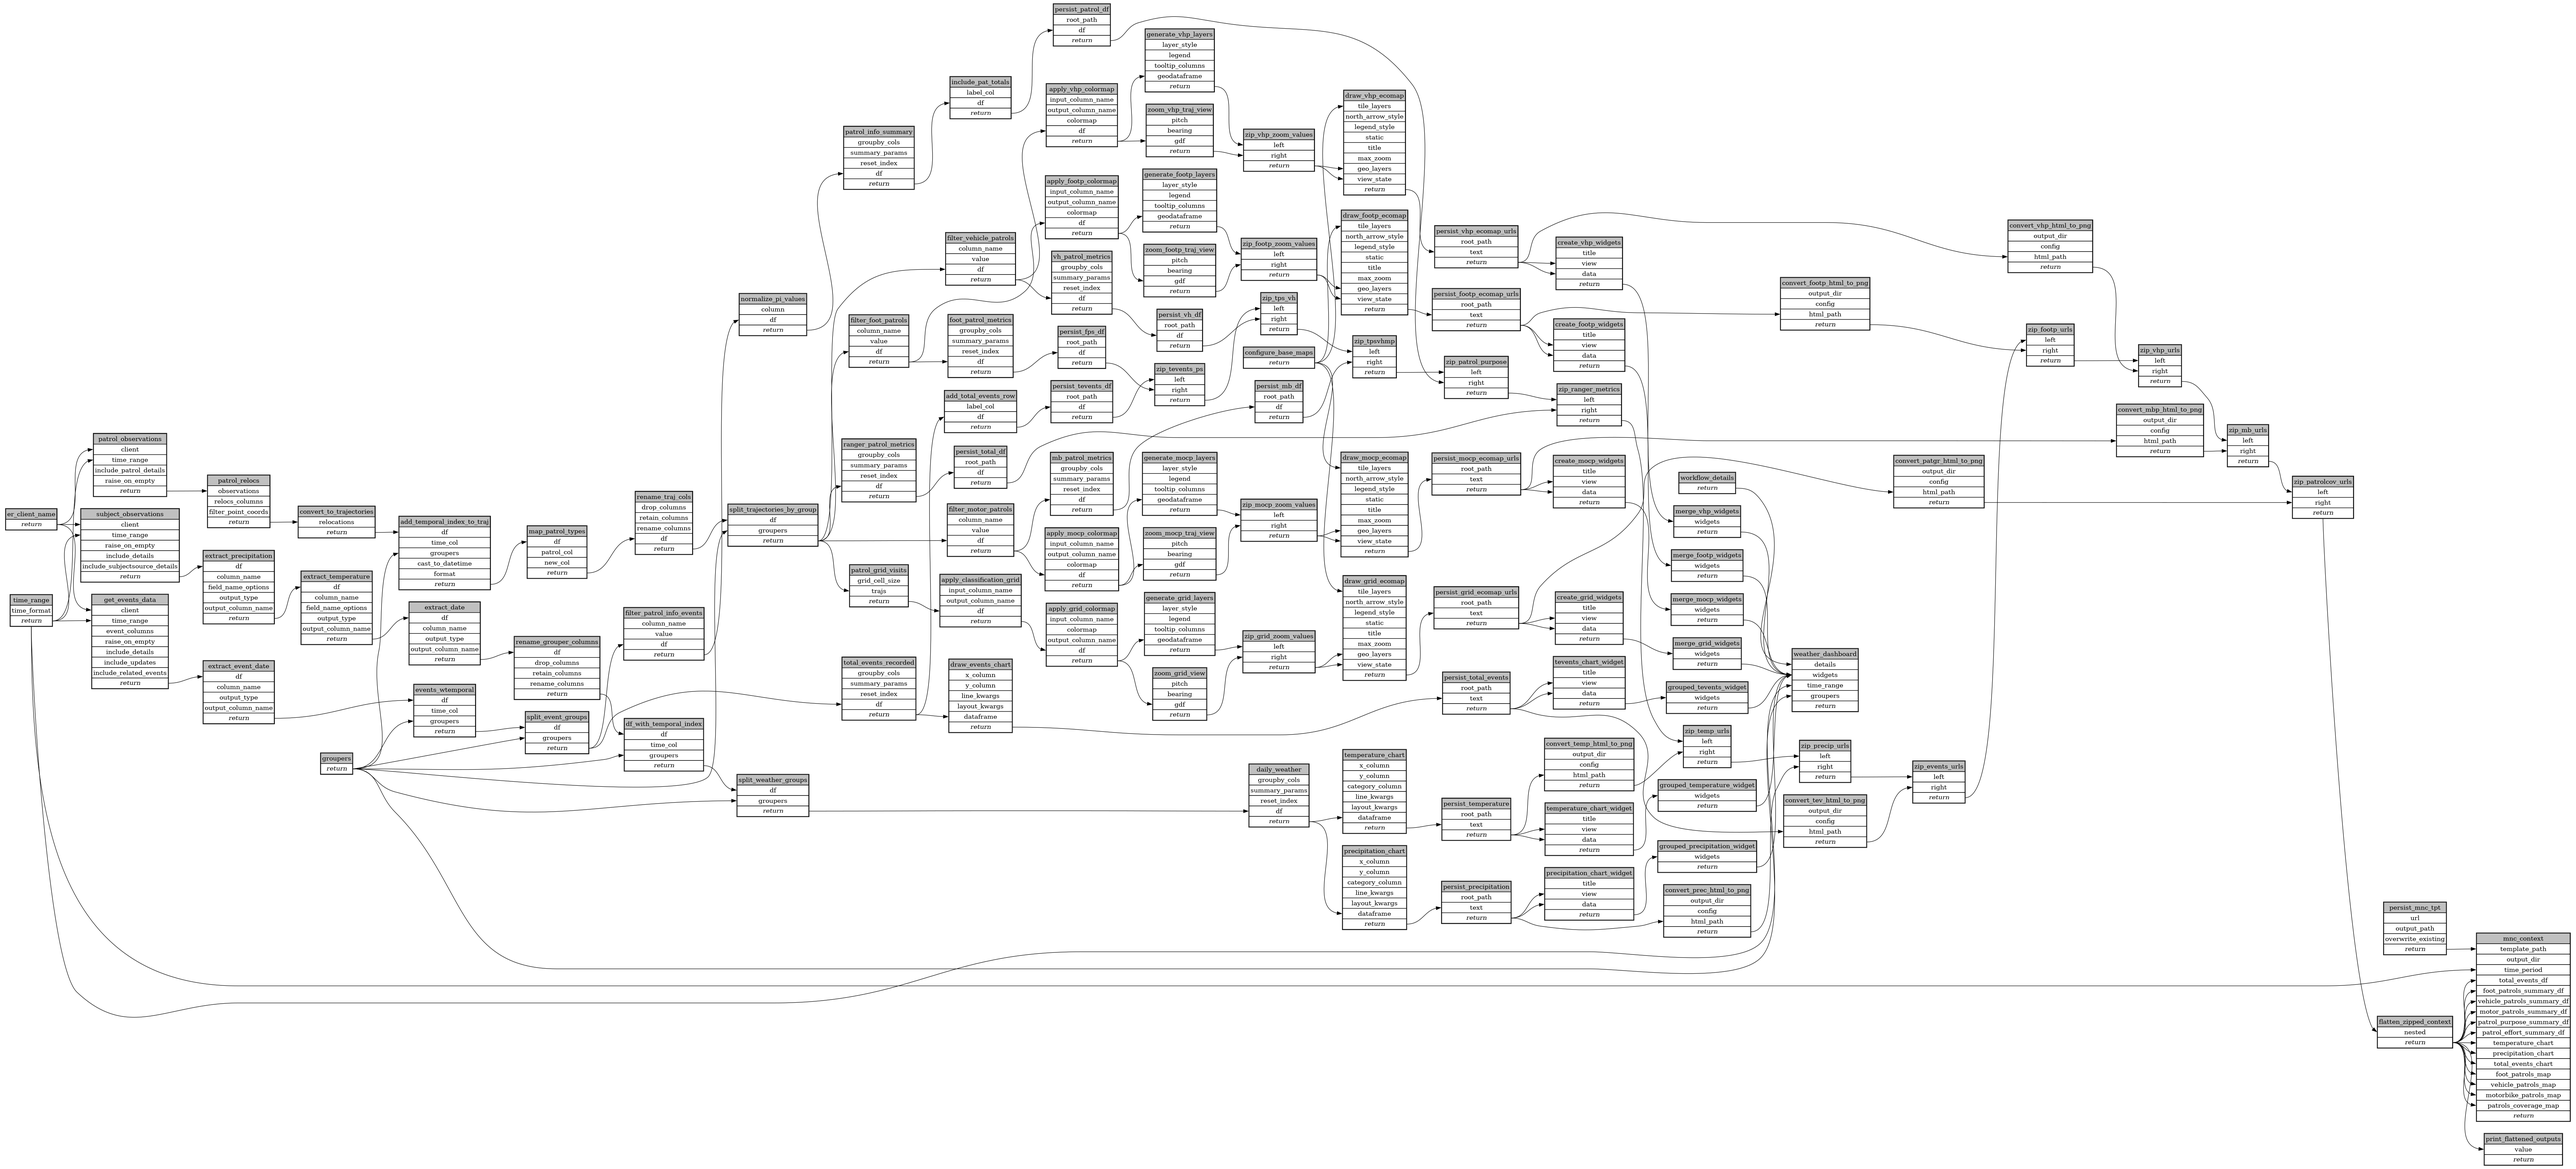
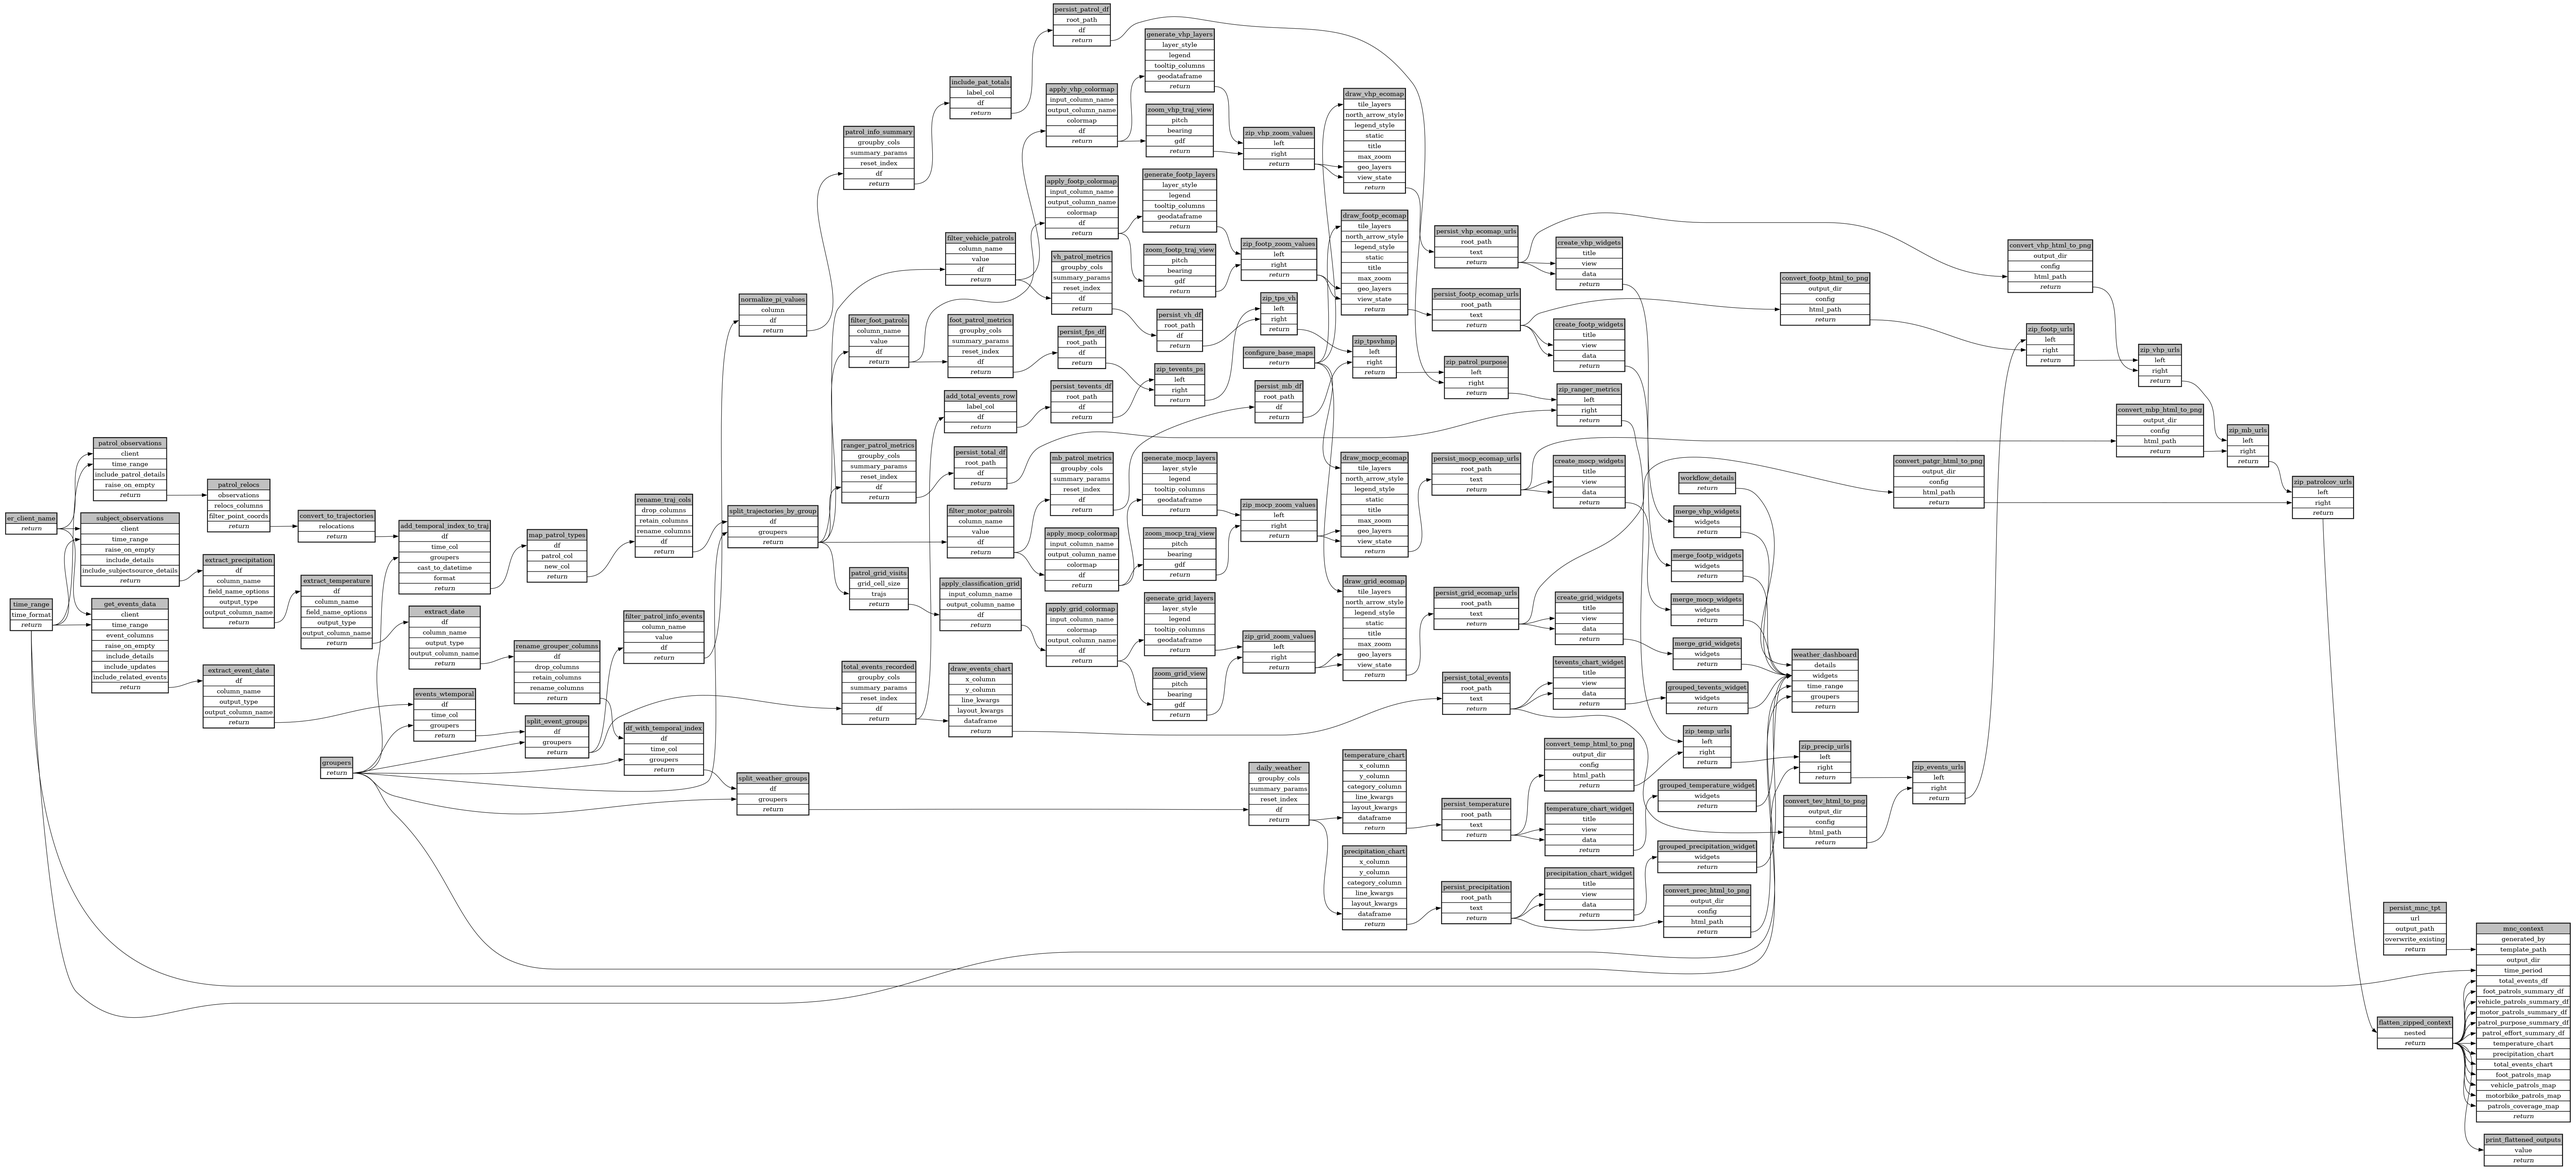
include missing parameter

diff --git a/src/ecoscope-workflows-ext-mnc/ecoscope_workflows_ext_mnc/tasks/_mnc_context.py b/src/ecoscope-workflows-ext-mnc/ecoscope_workflows_ext_mnc/tasks/_mnc_context.py
@@ -117,9 +117,10 @@ class MncContext:
 
 @task
 def create_mnc_context(
-    generated_by: str,
+
     template_path: str,
     output_dir: str,
+    generated_by: Optional[str]=None,
     total_events_df: Optional[str] = None,
     foot_patrols_summary_df: Optional[str] = None,
     vehicle_patrols_summary_df: Optional[str] = None,
@@ -165,7 +166,7 @@ def create_mnc_context(
         raise FileNotFoundError(f"Template file not found: {template_path}")
     
     os.makedirs(output_dir, exist_ok=True)
-    
+
     # Load all DataFrames
     total_events_loaded = _load_df(total_events_df)
     foot_patrols_summary_loaded = _load_df(foot_patrols_summary_df)

diff --git a/workflows/customized_report/ecoscope-workflows-customized-report-workflow/ecoscope_workflows_customized_report_workflow/dags/run_async.py b/workflows/customized_report/ecoscope-workflows-customized-report-workflow/ecoscope_workflows_customized_report_workflow/dags/run_async.py
@@ -1978,6 +1978,7 @@ def main(params: Params):
             .handle_errors(task_instance_id="mnc_context")
             .set_executor("lithops"),
             partial={
+                "generated_by": "Ecoscope",
                 "template_path": DependsOn("persist_mnc_tpt"),
                 "output_dir": os.environ["ECOSCOPE_WORKFLOWS_RESULTS"],
                 "time_period": DependsOn("time_range"),

diff --git a/workflows/customized_report/ecoscope-workflows-customized-report-workflow/ecoscope_workflows_customized_report_workflow/dags/run_async_mock_io.py b/workflows/customized_report/ecoscope-workflows-customized-report-workflow/ecoscope_workflows_customized_report_workflow/dags/run_async_mock_io.py
@@ -2003,6 +2003,7 @@ def main(params: Params):
             .handle_errors(task_instance_id="mnc_context")
             .set_executor("lithops"),
             partial={
+                "generated_by": "Ecoscope",
                 "template_path": DependsOn("persist_mnc_tpt"),
                 "output_dir": os.environ["ECOSCOPE_WORKFLOWS_RESULTS"],
                 "time_period": DependsOn("time_range"),

diff --git a/workflows/customized_report/ecoscope-workflows-customized-report-workflow/ecoscope_workflows_customized_report_workflow/dags/run_sequential.py b/workflows/customized_report/ecoscope-workflows-customized-report-workflow/ecoscope_workflows_customized_report_workflow/dags/run_sequential.py
@@ -1560,6 +1560,7 @@ def main(params: Params):
         create_mnc_context.validate()
         .handle_errors(task_instance_id="mnc_context")
         .partial(
+            generated_by="Ecoscope",
             template_path=persist_mnc_tpt,
             output_dir=os.environ["ECOSCOPE_WORKFLOWS_RESULTS"],
             time_period=time_range,

diff --git a/workflows/customized_report/ecoscope-workflows-customized-report-workflow/ecoscope_workflows_customized_report_workflow/dags/run_sequential_mock_io.py b/workflows/customized_report/ecoscope-workflows-customized-report-workflow/ecoscope_workflows_customized_report_workflow/dags/run_sequential_mock_io.py
@@ -1585,6 +1585,7 @@ def main(params: Params):
         create_mnc_context.validate()
         .handle_errors(task_instance_id="mnc_context")
         .partial(
+            generated_by="Ecoscope",
             template_path=persist_mnc_tpt,
             output_dir=os.environ["ECOSCOPE_WORKFLOWS_RESULTS"],
             time_period=time_range,

diff --git a/workflows/customized_report/ecoscope-workflows-customized-report-workflow/ecoscope_workflows_customized_report_workflow/dags/jupytext.py b/workflows/customized_report/ecoscope-workflows-customized-report-workflow/ecoscope_workflows_customized_report_workflow/dags/jupytext.py
@@ -2872,6 +2872,7 @@ mnc_context_params = dict(
 mnc_context = (
     create_mnc_context.handle_errors(task_instance_id="mnc_context")
     .partial(
+        generated_by="Ecoscope",
         template_path=persist_mnc_tpt,
         output_dir=os.environ["ECOSCOPE_WORKFLOWS_RESULTS"],
         time_period=time_range,

diff --git a/workflows/customized_report/ecoscope-workflows-customized-report-workflow/README.md b/workflows/customized_report/ecoscope-workflows-customized-report-workflow/README.md
@@ -5,17 +5,17 @@
 
 ```yaml
 # fingerprint:
-artifacts_sha256_basic: decc1448f8038ced1ca71b5f47ee445167b82bc6497a9bd356a5fb50c35090ad
-artifacts_sha256_strict: 4ab6ada54eb48049a4d278d9dfccac882da5a8218a9b3f4b534a3da6a55d7ee9
+artifacts_sha256_basic: 2da89fe8cf8af129f068bbf16b7eccdea7765ba63eeb7df1f04965137ec4e998
+artifacts_sha256_strict: ac7eb98d9bb5cf235e156734261eb696666e4d47473cd58937a731ddf66d94e3
 installed_requirements:
 - channel: https://repo.prefix.dev/ecoscope-workflows/
   name: ecoscope-workflows-core
   version: {version: ==0.7.2}
 - channel: file:///tmp/ecoscope-workflows-custom/release/artifacts/
   name: ecoscope-workflows-ext-mnc
-  version: {version: ==10000.dev46+g60a35dca2.d20251024}
+  version: {version: ==10000.dev48+g22a1fbfd6.d20251024}
 params_sha256: 975abe9f72824d550514aeaef618b8db187b308f971fcf1de2fdbb98d1f03eff
-spec_sha256: 1cf6d4a5371be300e159d3580c234fd1ed0b1e56c27bf9d84cd80975cf0e62ad
+spec_sha256: 1dda5caae2bb76e2380aedca0897f3ed40fed68363856f14c1582fbd2203cbf8
 
 ```
 
